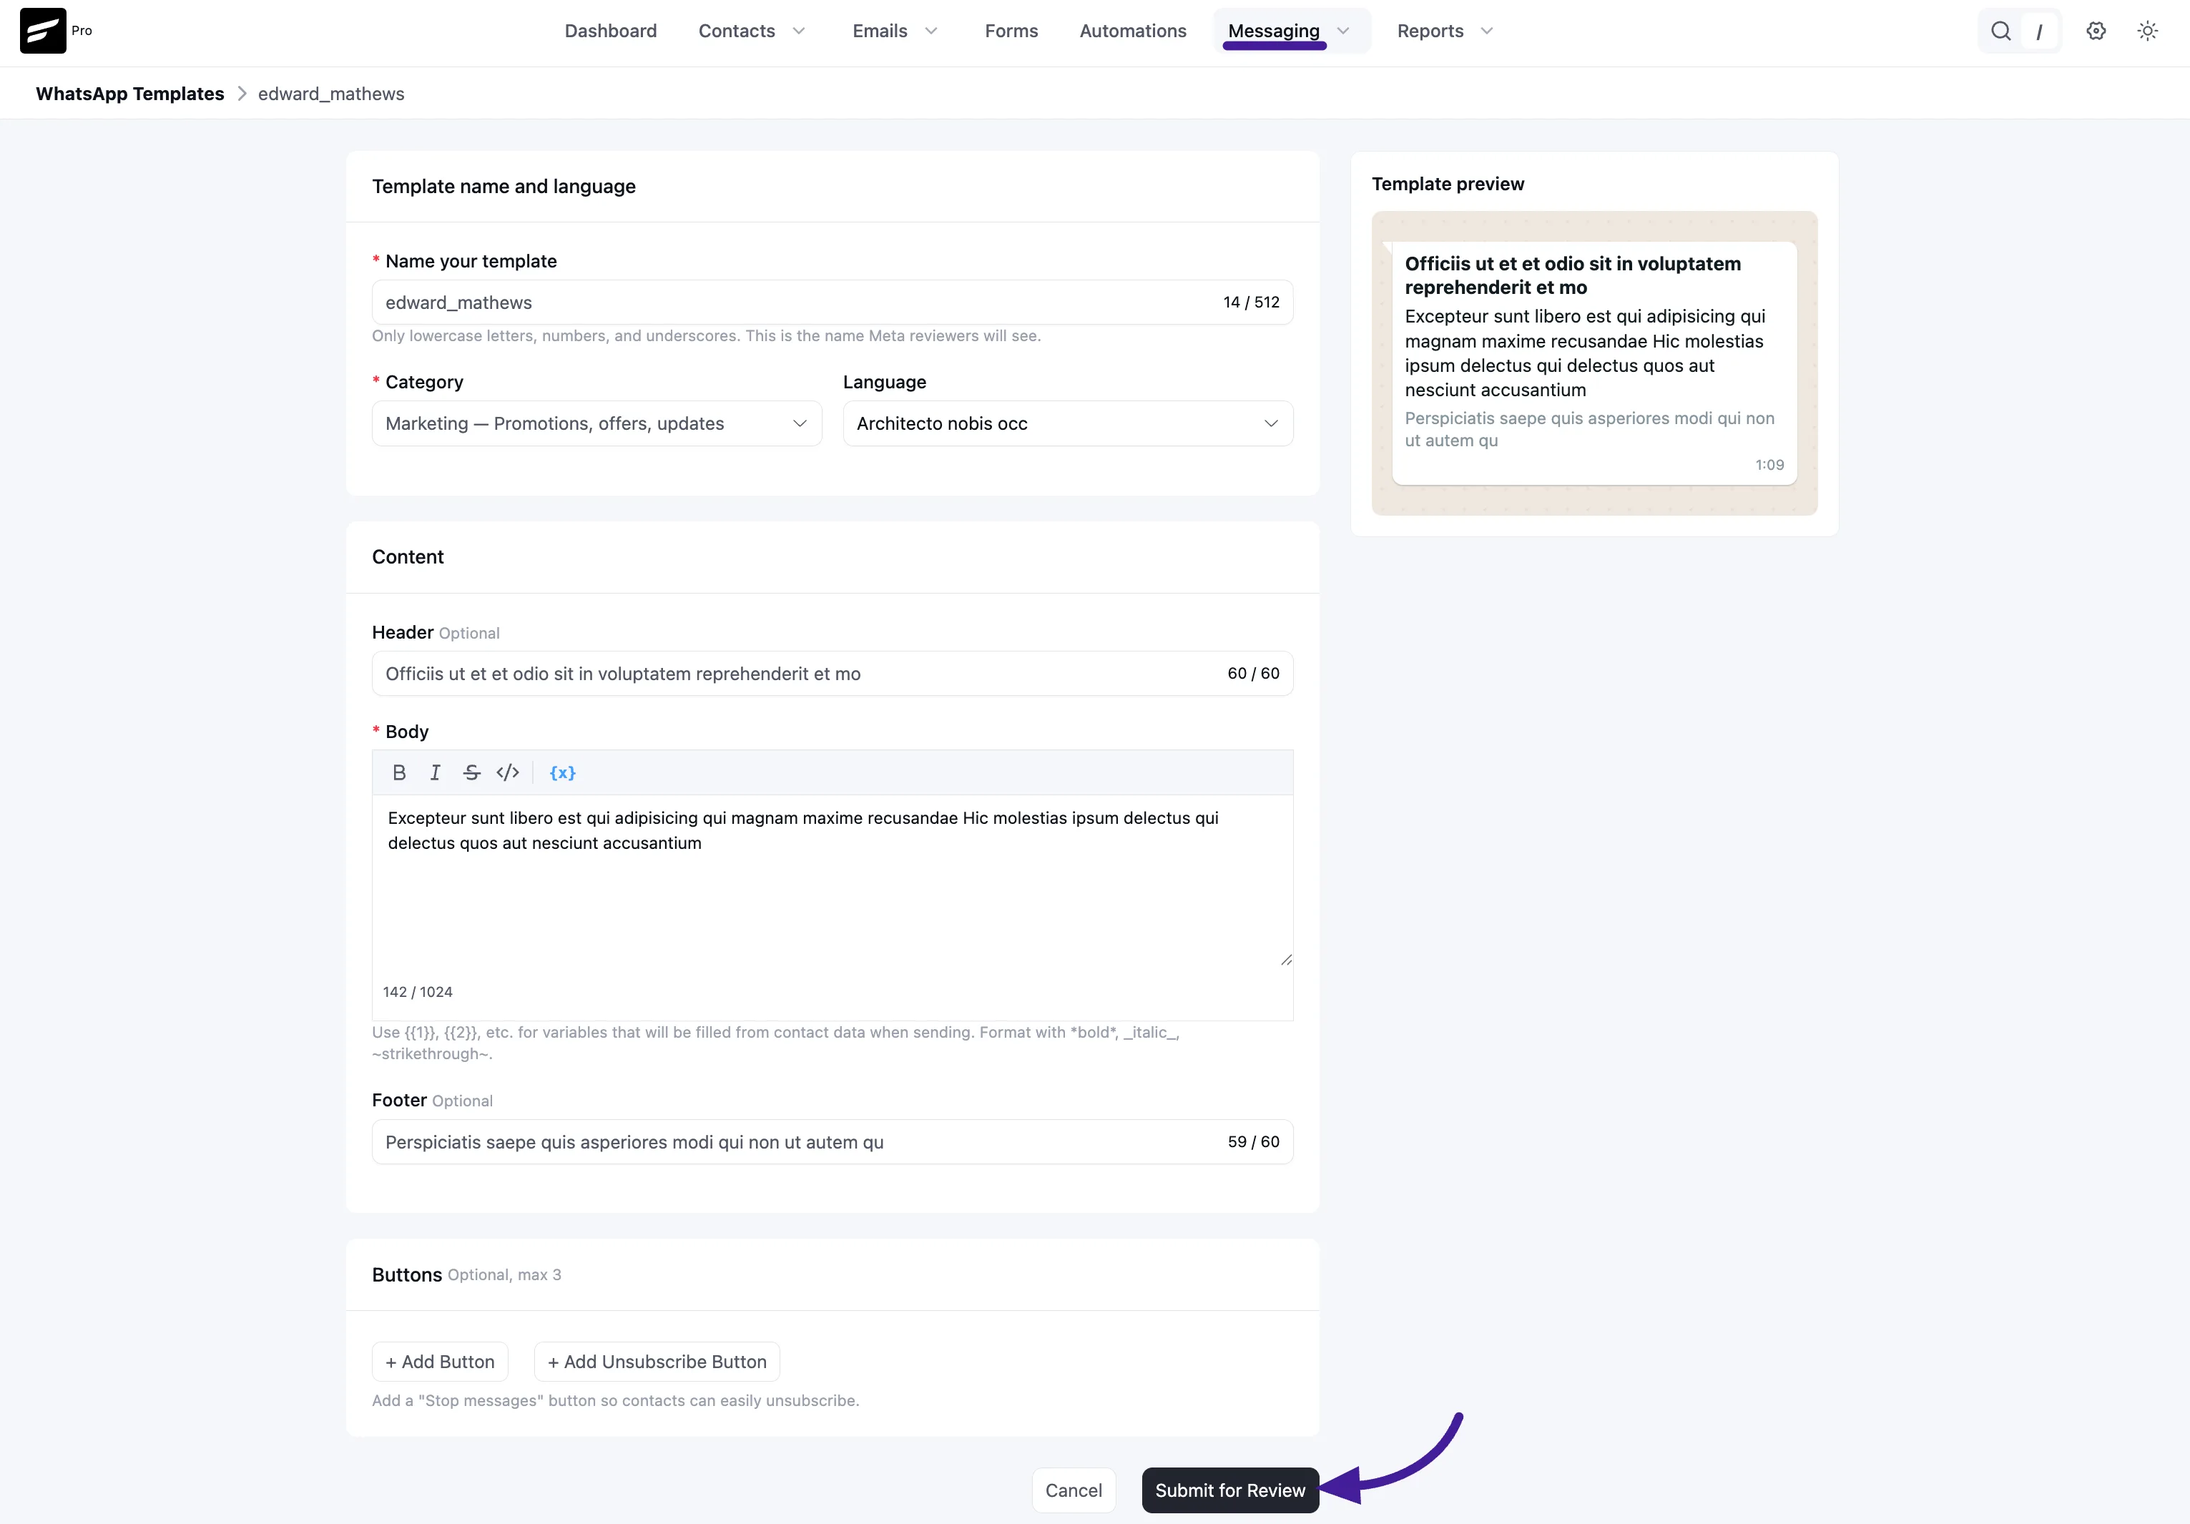
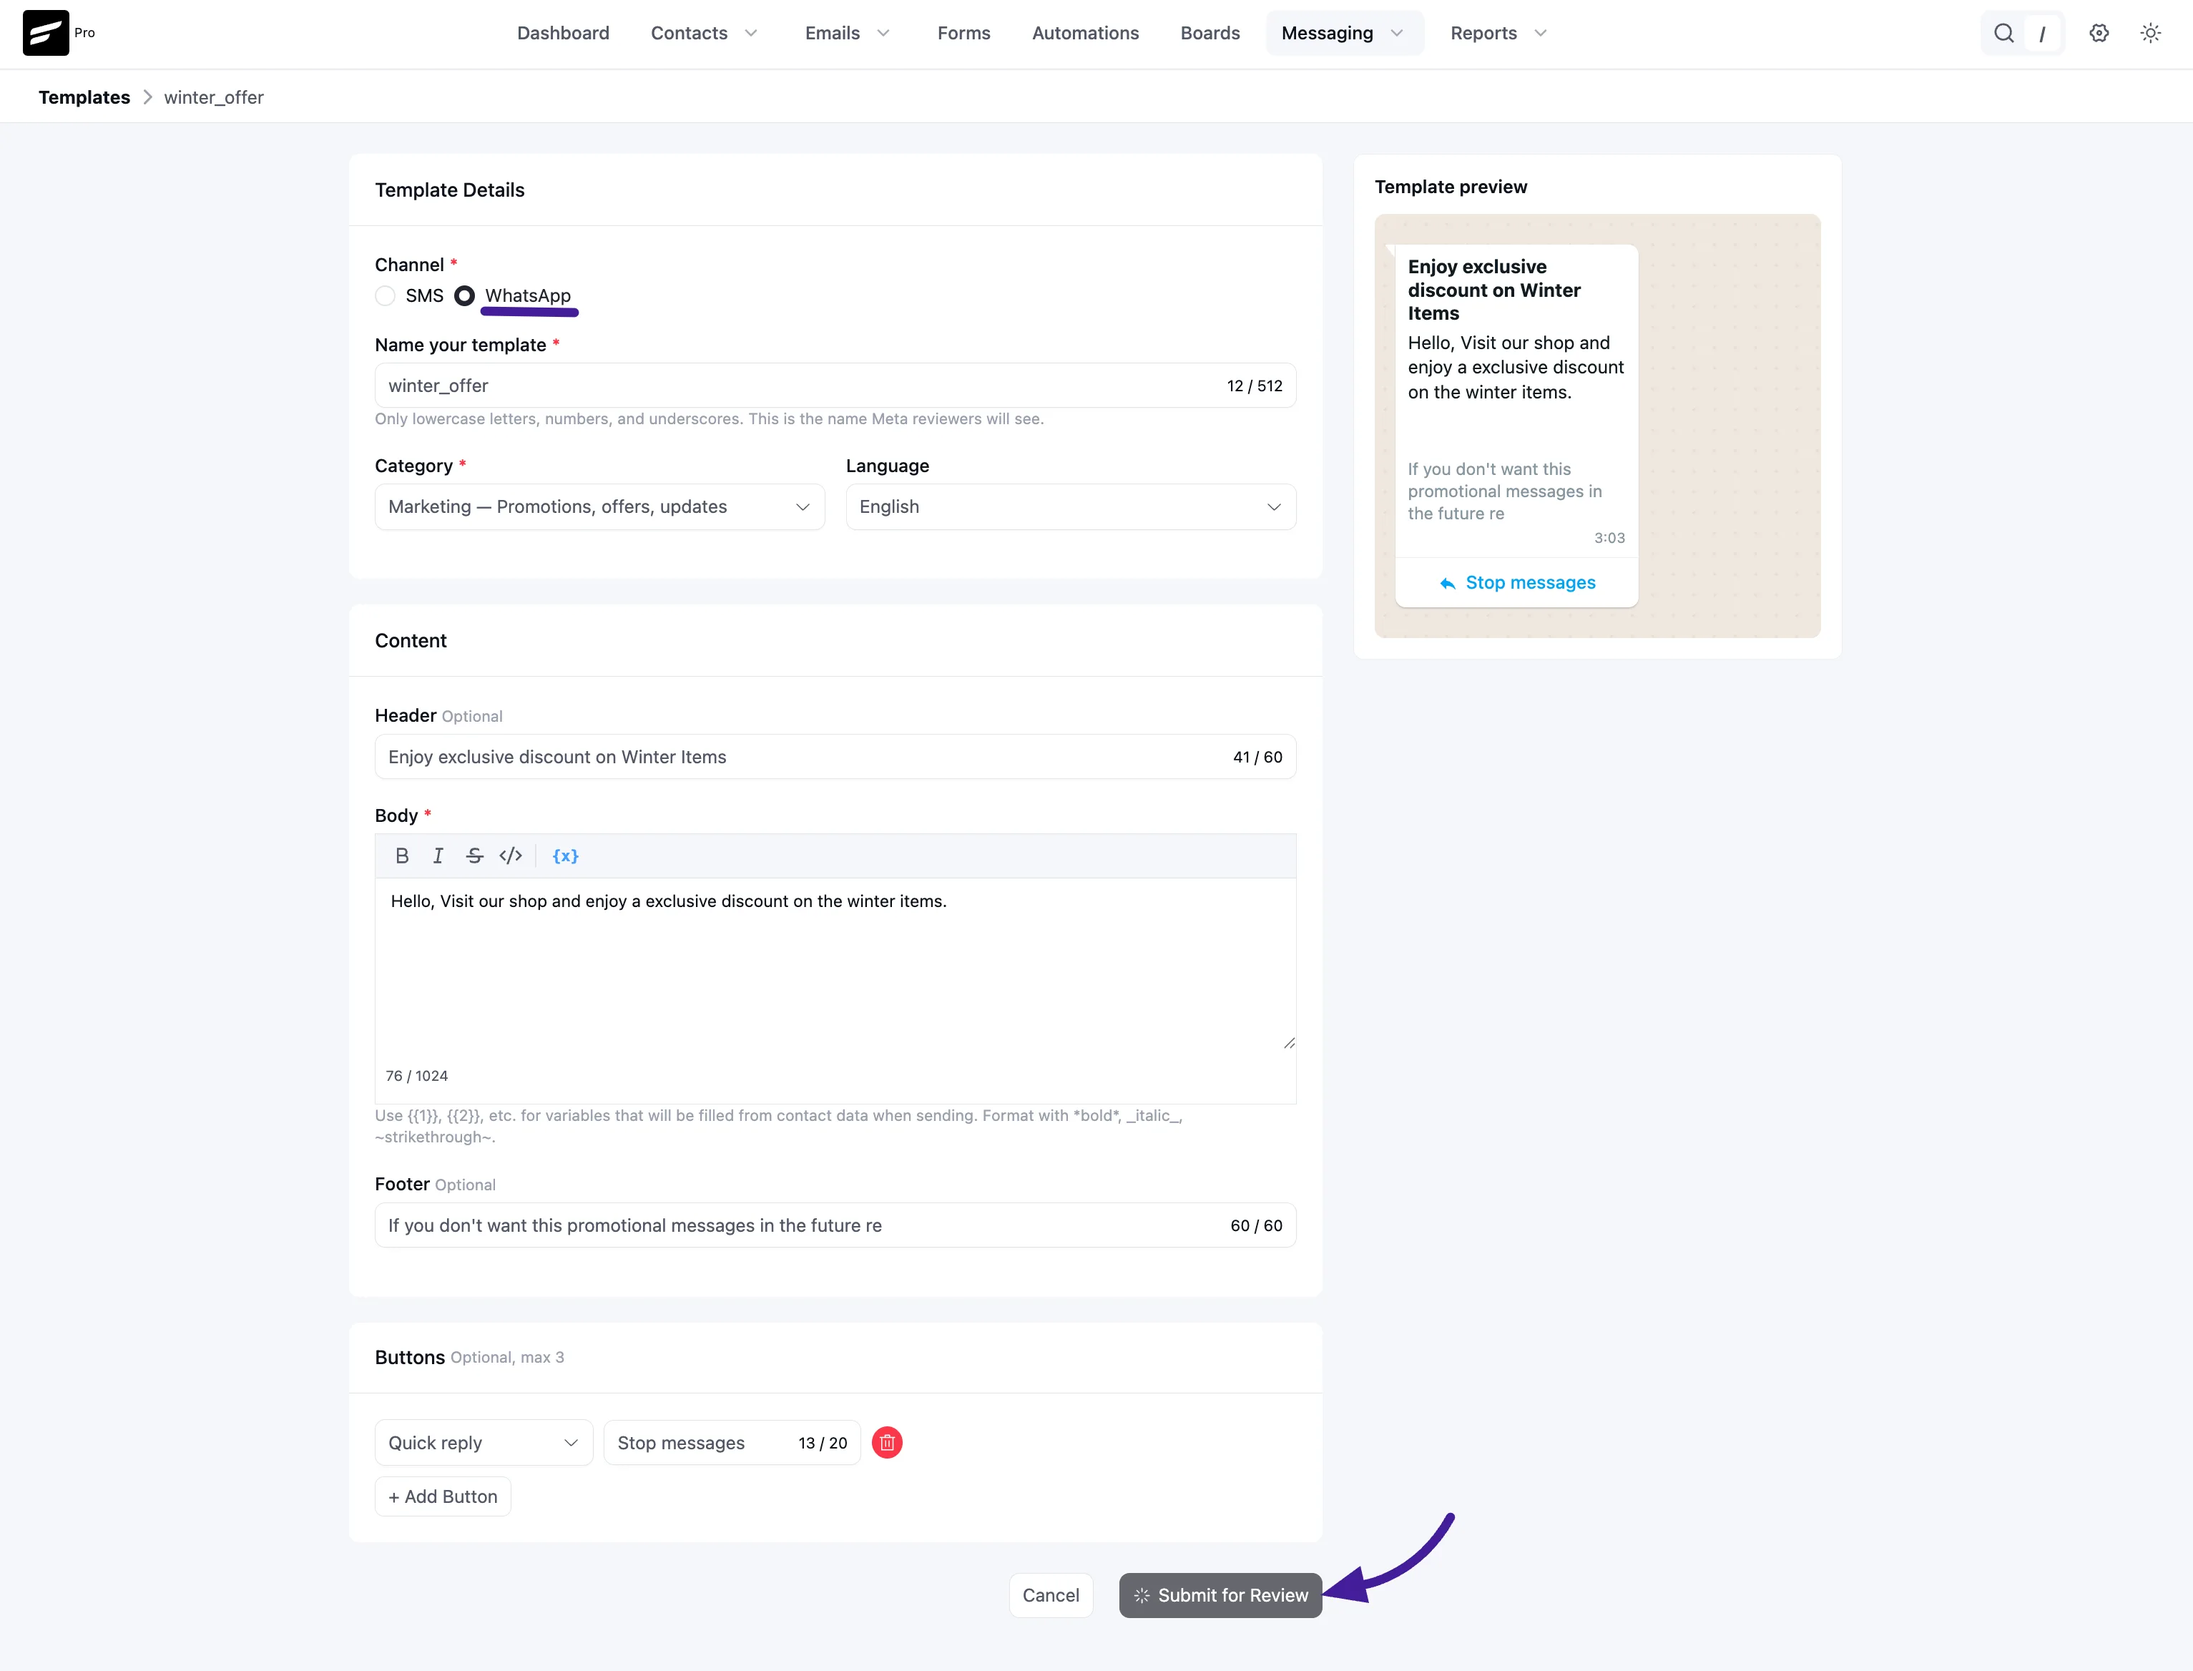
Update WhatsApp templates docs and images
Revise docs/whatsapp-module/whatsapp-templates.md to clarify workflow, UI labels, and template concepts (24-hour rule, syncing, channel, name, category, variables, buttons, unsubscribe behavior, submission and usage). Reword several paragraphs for clarity and add links to related pages. Replace the dashboard screenshot by removing templates-dashboard-1.webp and adding templates-list-1.webp; update the create-template-2.webp asset. These changes improve accuracy and the on-screen guidance for creating and managing WhatsApp templates.

diff --git a/docs/whatsapp-module/whatsapp-templates.md b/docs/whatsapp-module/whatsapp-templates.md
@@ -7,7 +7,7 @@ order: 4
 
 # WhatsApp Templates
 
-A WhatsApp template is a pre-written message that your provider has reviewed and approved. Templates exist because WhatsApp doesn't let businesses message people freely outside a 24-hour reply window — an approved template is the only thing that reaches a contact.
+A WhatsApp template is a message your provider has reviewed and approved in advance. Templates exist because WhatsApp won't let businesses message people freely — outside a 24-hour reply window, an approved template is the only thing that reaches a contact.
 
 >[!Note]
 > This feature requires **FluentCRM Pro**. [See what's included →](/how-to-install-upgrade-and-activate-license)
@@ -15,71 +15,97 @@ A WhatsApp template is a pre-written message that your provider has reviewed and
 That makes templates the backbone of almost every WhatsApp campaign you'll run.
 
 >[!Note]
-> **The 24-hour rule:** when a contact messages or calls you, a 24-hour window opens — Meta calls it the *customer service window* — and you can reply with any free-form text. Each new message or call from that contact resets the timer to a fresh 24 hours. Once the window closes, free-form messages stop going through and only approved templates reach them.
+> **The 24-hour rule:** when a contact messages or calls you, a 24-hour window opens — Meta calls it the *customer service window* — and you can reply with any free-form text. Each new message or call from that contact resets the timer. Once the window closes, free-form messages stop going through and only approved templates reach them.
 >
-> Since most of your contacts have never messaged you first, plan on templates for anything you initiate. Templates don't override opt-in either — Meta requires contacts to have opted in before you message them at all.
+> Most of your contacts have never messaged you first, so plan on templates for anything you initiate. Templates don't override opt-in either — Meta requires contacts to have agreed to hear from you before you message them at all.
 
 ## Where to Find Templates
 
-Go to **Messaging → WhatsApp Templates** in the FluentCRM top menu, or open the **Templates** tab from the WhatsApp Campaigns screen.
+Go to **FluentCRM → Messaging → Templates**.
 
-The list shows each template's **Provider**, **Category**, **Language**, **Status**, and **Variables**, along with a **Preview**.
+This screen is shared with SMS. Use the **All / SMS / WhatsApp** filter to show just one channel. Above the table, FluentCRM shows your current provider and when it last synced.
 
-![WhatsApp Templates dashboard with Sync Templates and Create Template buttons](/whatsapp-module/whatsapp-templates/templates-dashboard-1.webp)
+![Templates screen listing WhatsApp templates with provider, category, language, status, and variable columns](/whatsapp-module/whatsapp-templates/templates-list-1.webp)
 
-The current provider appears just below the page title, so you can confirm which account these templates belong to.
+Each row shows:
 
-## Syncing Existing Templates
+- **Template Name:** The name your provider knows it by.
+- **Provider:** Which platform approved it.
+- **Category:** `MARKETING`, `UTILITY`, or `AUTHENTICATION`.
+- **Language:** The language the template was submitted in.
+- **Status:** `APPROVED`, `PENDING`, or `REJECTED`. Only approved templates can be sent.
+- **Variables:** How many placeholders the template expects.
 
-If you already approved templates directly with Meta or Twilio, click **Sync Templates** to pull them into FluentCRM. Nothing is created — this just fetches what your provider already has.
+The eye icon previews a template; the bin icon deletes it.
 
-Sync again whenever a template's approval status changes on the provider side.
+>[!Note]
+> SMS templates appear on this same screen with `-` in the Category, Language, and Status columns. Those columns describe provider approval, and an SMS template doesn't need any — you write it and it's ready.
+
+## Syncing Templates
+
+Click **Sync Templates** to pull the current list and approval statuses from your provider.
+
+Sync whenever you've created a template in Meta's dashboard instead of here, or when you're waiting on a review to clear. A template that was `PENDING` when you last looked won't flip to `APPROVED` on its own.
 
 ## Creating a Template
 
 Click **Create Template** to build one and submit it for review.
 
-![Create Template screen with name, category, language, content fields, and live preview](/whatsapp-module/whatsapp-templates/create-template-2.webp)
+![Template editor with channel, name, category, language, content fields, buttons, and a live preview](/whatsapp-module/whatsapp-templates/create-template-2.webp)
 
-### Template Name and Language
+### Template Details
 
-- **Name your template:** Lowercase letters, numbers, and underscores only. This is the name your provider's reviewers see.
-- **Category:** What the template is for — for example, **Marketing — Promotions, offers, updates**. Pick honestly; the wrong category is a common rejection reason.
-- **Language:** The language the content is written in.
+- **Channel:** Select **WhatsApp**. (The same editor creates SMS templates, which skip the review process entirely.)
+- **Name your template:** Lowercase letters, numbers, and underscores only — for example `winter_offer`. This is the name Meta's reviewers see.
+- **Category:** What the message is for. **Marketing** covers promotions, offers, and updates; **Utility** covers order updates and account alerts; **Authentication** covers OTP and verification codes. Categorise honestly — Meta rejects templates whose content doesn't match the category they were submitted under.
+- **Language:** The language you've written the template in.
 
 ### Content
 
-- **Header** *(optional)*: A short bold line above the message, up to 60 characters.
-- **Body** *(required)*: The main message, up to 1024 characters. Format with `*bold*`, `_italic_`, and `~strikethrough~`.
-- **Footer** *(optional)*: Small grey text below the message, up to 60 characters.
-
-A live **Template preview** on the right shows the message as it will appear in WhatsApp.
+- **Header** *(optional)*: A short bold line at the top, up to 60 characters.
+- **Body** *(required)*: The message itself, up to 1024 characters. The toolbar adds bold, italic, strikethrough, and monospace formatting.
+- **Footer** *(optional)*: Small grey text at the bottom, up to 60 characters. A good home for "Reply STOP to unsubscribe".
 
 ### Variables
 
-Use numbered placeholders — <code v-pre>{{1}}</code>, <code v-pre>{{2}}</code>, and so on — for anything that changes per contact. FluentCRM fills them from contact data when the message sends, so one approved template covers your whole list.
+Insert placeholders with the `{x}` toolbar button. They're numbered — <code v-pre>{{1}}</code>, <code v-pre>{{2}}</code>, and so on — and you map each one to real contact data when you build the campaign.
 
-Click the **{x}** button in the body toolbar to insert one.
+Write your body so the variables read naturally in a sentence. Meta reviews templates by eye, and one that's mostly placeholders tends to get rejected.
 
 ### Buttons
 
-Add up to three buttons per template.
+Add up to three buttons. Click **+ Add Button**, then pick a type:
 
-- **Add Button:** A standard call-to-action button.
-- **Add Unsubscribe Button:** Adds a "Stop messages" button so contacts can opt out in one tap.
+- **Quick reply:** Sends a preset reply back to you when tapped.
+- **Visit website:** Opens a URL you provide.
+- **Call phone:** Dials a number you provide.
+
+While a template has no buttons yet, a second shortcut appears — **+ Add Unsubscribe Button**. It drops in a "Stop messages" quick reply so contacts can opt out in one tap.
+
+A contact who taps **Stop messages** is unsubscribed automatically — the button sends the word back to you as a reply, and FluentCRM reads it the same way it reads a typed `STOP`. See [how contacts opt themselves out](/whatsapp-activities#how-contacts-opt-themselves-out).
 
 >[!Tip]
 > Add an unsubscribe button to marketing templates. It gives people a clean way out, which protects your number's quality rating — and WhatsApp throttles senders that collect blocks and reports.
 
 ### Submitting
 
-Click **Submit for Review** to send the template to your provider.
+The **Template preview** on the right shows how the message will look on a phone as you type. When it reads right, click **Submit for Review**.
 
-Approval usually takes minutes but can run longer. The template's **Status** updates in the list once your provider decides; click **Sync Templates** if it looks stale.
+The template arrives as `PENDING`. Meta usually answers within minutes, though it can take up to 24 hours. Click **Sync Templates** to check.
 
->[!Warning]
-> You can't send with a template until it's approved. Submit templates ahead of any campaign you're planning rather than the day you want to send.
+If it comes back `REJECTED`, the usual culprits are a category that doesn't match the content, promotional language in a template submitted as `UTILITY`, or a body that's mostly variables. Fix it and submit again under a new name.
 
-## Using Templates in a Campaign
+## Using a Template
 
-When composing a WhatsApp campaign, set **Message Type** to **Approved Template (recommended)** and pick your template. This is the option that reaches your full audience — see [WhatsApp Campaign](/whatsapp-campaign) for the full flow.
+Templates show up wherever WhatsApp messages are sent:
+
+- **In a campaign:** Select **Approved Template** as the message type, pick the template, and map its variables. See [WhatsApp Campaign](/whatsapp-campaign).
+- **In the inbox:** Use **Send Template** to reach someone whose 24-hour window has closed. See the [Unified Inbox guide](/unified-inbox).
+- **In automations:** WhatsApp actions use approved templates the same way.
+
+Only `APPROVED` templates appear in these pickers.
+
+## What's Next?
+
+- [Send a WhatsApp campaign with your template](/whatsapp-campaign)
+- [Reply to contacts in the Unified Inbox](/unified-inbox)
